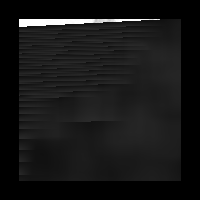
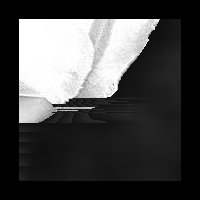
flowerbug2

Changed region(s): [[0.09, 0.09, 0.81, 0.63]]

diff --git a/PyLearnIPConvolution/blurring.py b/PyLearnIPConvolution/blurring.py
@@ -26,6 +26,8 @@ for i in range(FS//2, rows-FS//2):
             else:
                 image_new[i, j] = average
         else:
+            image = cv2.imread('input/flower.jpg', cv2.IMREAD_GRAYSCALE)
+            image = image[500:700,500:700]
             image_new[i, j] = image[i,j]
         
 cv2.imwrite('output/flower_blur4.png',image_new)
